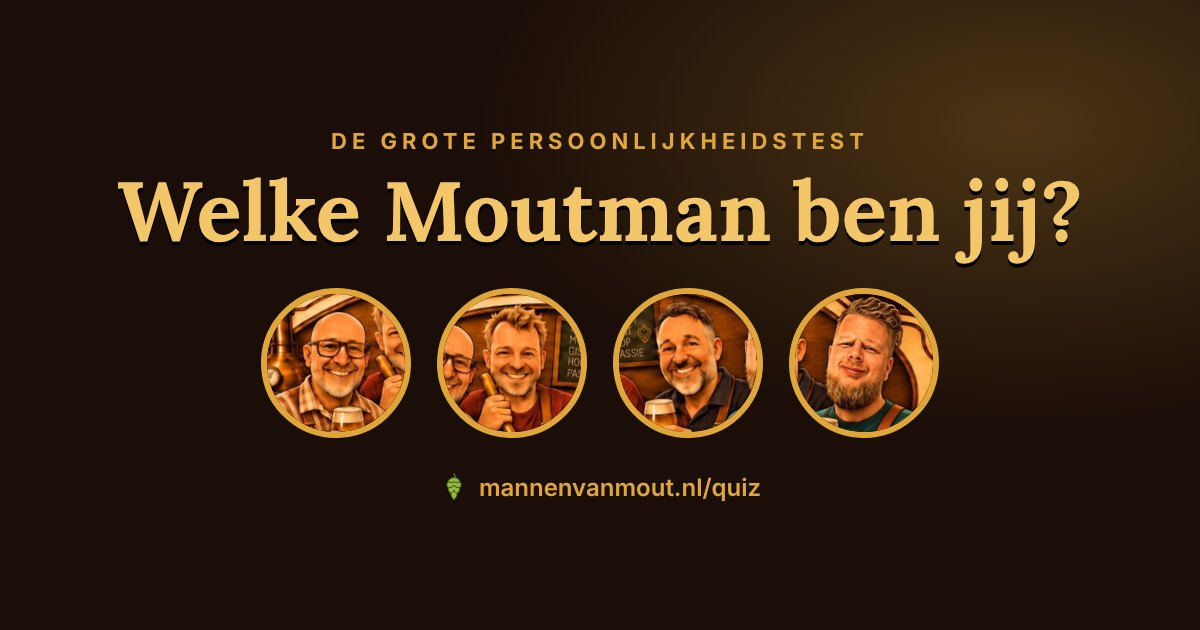
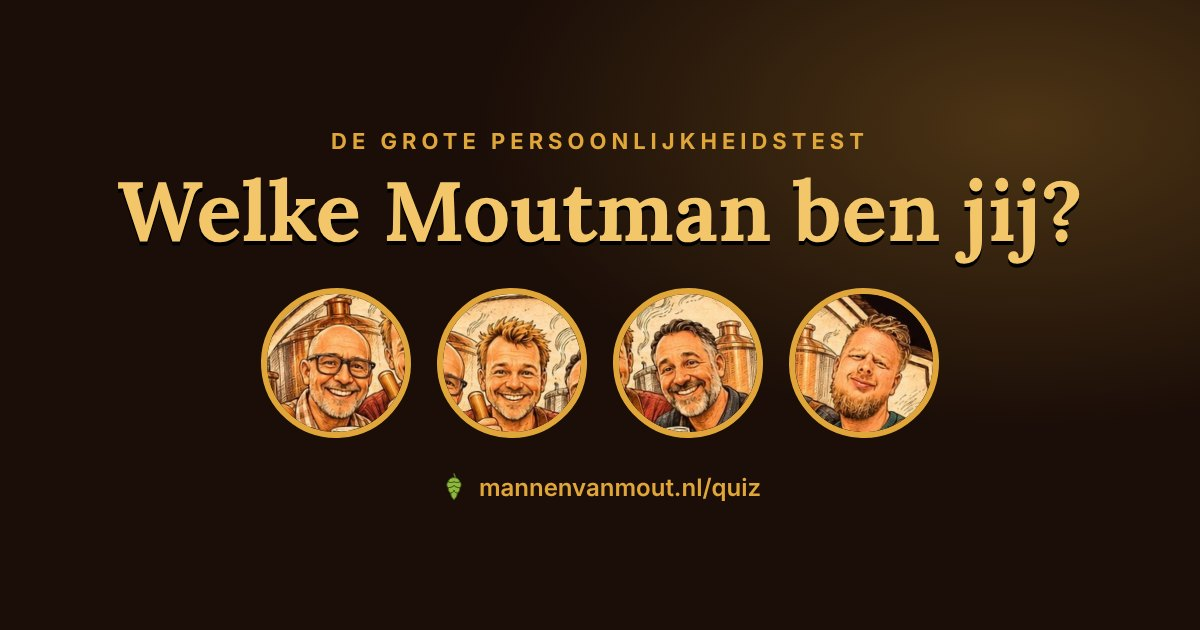
Hero, kwartetfoto's en link-previews in de nieuwe getekende stijl
Claude-Session: https://claude.ai/code/session_01C3L5mvkgrAc1fwZViTEaaJ

Changed region(s): [[0.37, 0.4524, 0.8017, 0.6937], [0.2158, 0.4524, 0.3392, 0.6937]]

diff --git a/config.js b/config.js
@@ -28,7 +28,7 @@ window.MVM_CONFIG = {
     {
       name: "Marco K",
       role: "De Roerganger",
-      photo: "assets/brouwer1.jpg",
+      photo: "assets/brouwer1.jpg?v=2",
       quote: "Niemand roert de maisch zoals hij. Zegt hij zelf.",
       code: "A1",
       stats: [["Moutdraaier", 10], ["Roerkracht", 9], ["Technicus", 8]],   // [eigenschap, score 0-10]
@@ -37,7 +37,7 @@ window.MVM_CONFIG = {
     {
       name: "Tom K",
       role: "De Receptengoeroe",
-      photo: "assets/brouwer2.jpg",
+      photo: "assets/brouwer2.jpg?v=2",
       quote: "Heeft voor elk bier een spreadsheet. En voor elke spreadsheet een bier.",
       code: "A2",
       stats: [["Brouwmeester", 10], ["Vergistexpert", 9], ["Meetkundige", 8]],   // [eigenschap, score 0-10]
@@ -46,7 +46,7 @@ window.MVM_CONFIG = {
     {
       name: "Marco S",
       role: "De Kwaliteitscontroleur",
-      photo: "assets/brouwer3.jpg",
+      photo: "assets/brouwer3.jpg?v=2",
       quote: "Proeft elke batch. Meerdere keren. Voor de zekerheid.",
       code: "A3",
       stats: [["Proefcapaciteit", 10], ["Afwegingexpert", 9], ["Neus", 8]],   // [eigenschap, score 0-10]
@@ -55,7 +55,7 @@ window.MVM_CONFIG = {
     {
       name: "Frank B",
       role: "De Hopfluisteraar",
-      photo: "assets/brouwer4.jpg",
+      photo: "assets/brouwer4.jpg?v=2",
       quote: "Ruikt één keer aan een hopbel en noemt het alfazuur. Zegt hij.",
       code: "A4",
       stats: [["Brouwervaring", 10], ["Hopsnuiver", 9], ["Verklaarder", 8]],   // [eigenschap, score 0-10]

diff --git a/index.html b/index.html
@@ -13,7 +13,7 @@
 <meta property="og:url" content="https://mannenvanmout.nl/">
 <meta property="og:title" content="Mannen van Mout – vier brouwers, één passie">
 <meta property="og:description" content="Vier vrienden, twee ketels en één passie: thuisgebrouwen bier met karakter. Bier van vrienden, om te delen met vrienden.">
-<meta property="og:image" content="https://mannenvanmout.nl/assets/og-image.jpg?v=2">
+<meta property="og:image" content="https://mannenvanmout.nl/assets/og-image.jpg?v=3">
 <meta property="og:image:width" content="1200">
 <meta property="og:image:height" content="630">
 <meta property="og:image:alt" content="Mannen van Mout met het etiket van de Gouden Broeder Tripel">
@@ -53,7 +53,7 @@
         <a class="btn ghost" href="#brouwers">Wie zijn die mannen?</a>
       </div>
     </div>
-    <img class="hero-img" src="assets/brouwers-hero.jpg" alt="De vier Mannen van Mout met een biertje bij de brouwketel" width="780" height="316">
+    <img class="hero-img" src="assets/brouwers-hero.jpg?v=2" alt="De vier Mannen van Mout met een biertje bij de brouwketel" width="680" height="320">
   </div>
 </header>
 
@@ -159,7 +159,7 @@
   </div>
 </footer>
 
-<script src="config.js?v=19"></script>
+<script src="config.js?v=20"></script>
 <script src="https://cdn.jsdelivr.net/npm/@supabase/supabase-js@2"></script>
 <script src="site.js?v=15"></script>
 <script src="leeftijd.js?v=11"></script>

diff --git a/quiz.html b/quiz.html
@@ -13,7 +13,7 @@
 <meta property="og:url" content="https://mannenvanmout.nl/quiz.html">
 <meta property="og:title" content="Welke Moutman ben jij?">
 <meta property="og:description" content="Vijf vragen, één waarheid. Doe de quiz en ontdek welke van de vier Mannen van Mout jij bent.">
-<meta property="og:image" content="https://mannenvanmout.nl/assets/og-quiz.jpg">
+<meta property="og:image" content="https://mannenvanmout.nl/assets/og-quiz.jpg?v=2">
 <meta property="og:image:width" content="1200">
 <meta property="og:image:height" content="630">
 <meta property="og:image:alt" content="De vier Mannen van Mout met de vraag: Welke Moutman ben jij?">
@@ -58,7 +58,7 @@
   </div>
 </footer>
 
-<script src="config.js?v=19"></script>
+<script src="config.js?v=20"></script>
 <script src="quiz.js?v=5"></script>
 <script src="leeftijd.js?v=11"></script>
 </body>

diff --git a/404.html b/404.html
@@ -9,7 +9,7 @@
 <meta name="description" content="Deze pagina bestaat niet (meer).">
 <meta property="og:title" content="Mannen van Mout">
 <meta property="og:description" content="Vier brouwers, één passie. Thuisgebrouwen bieren met karakter.">
-<meta property="og:image" content="https://mannenvanmout.nl/assets/og-image.jpg?v=2">
+<meta property="og:image" content="https://mannenvanmout.nl/assets/og-image.jpg?v=3">
 <link rel="icon" href="/assets/hop.svg" type="image/svg+xml">
 <link rel="apple-touch-icon" href="/assets/apple-touch-icon.png">
 <link rel="preconnect" href="https://fonts.googleapis.com">

diff --git a/app.html b/app.html
@@ -31,7 +31,7 @@
   <div class="empty">Laden…</div>
 </main>
 
-<script src="config.js?v=19"></script>
+<script src="config.js?v=20"></script>
 <script src="https://cdn.jsdelivr.net/npm/@supabase/supabase-js@2"></script>
 <script src="importeren.js?v=5"></script>
 <script src="app.js?v=11"></script>
